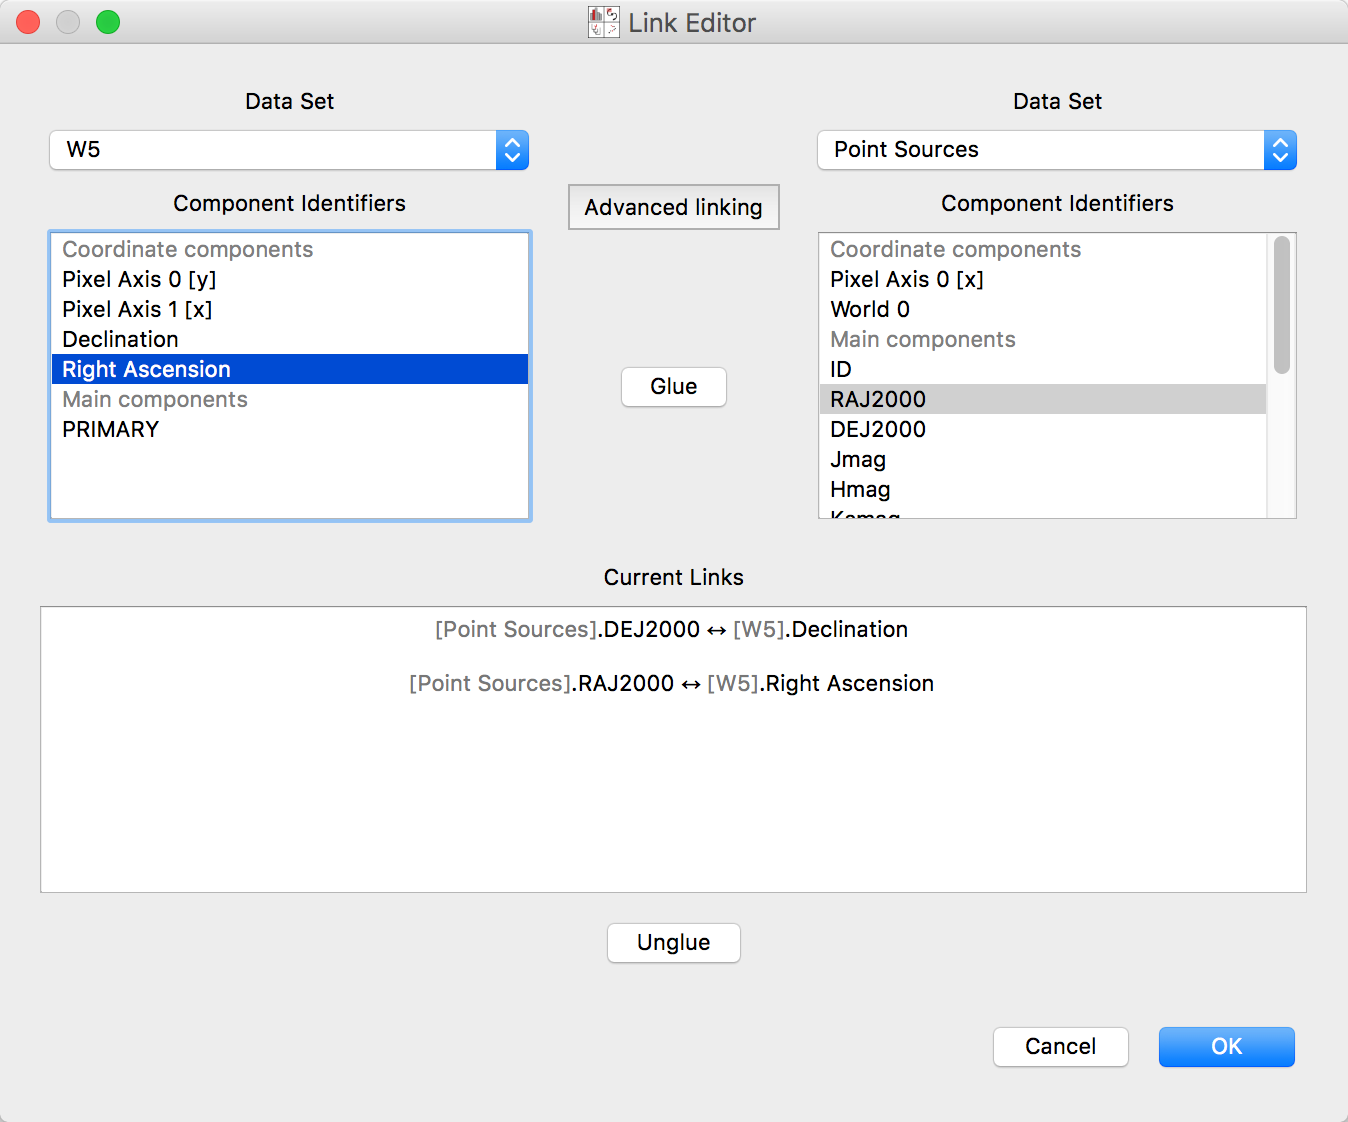
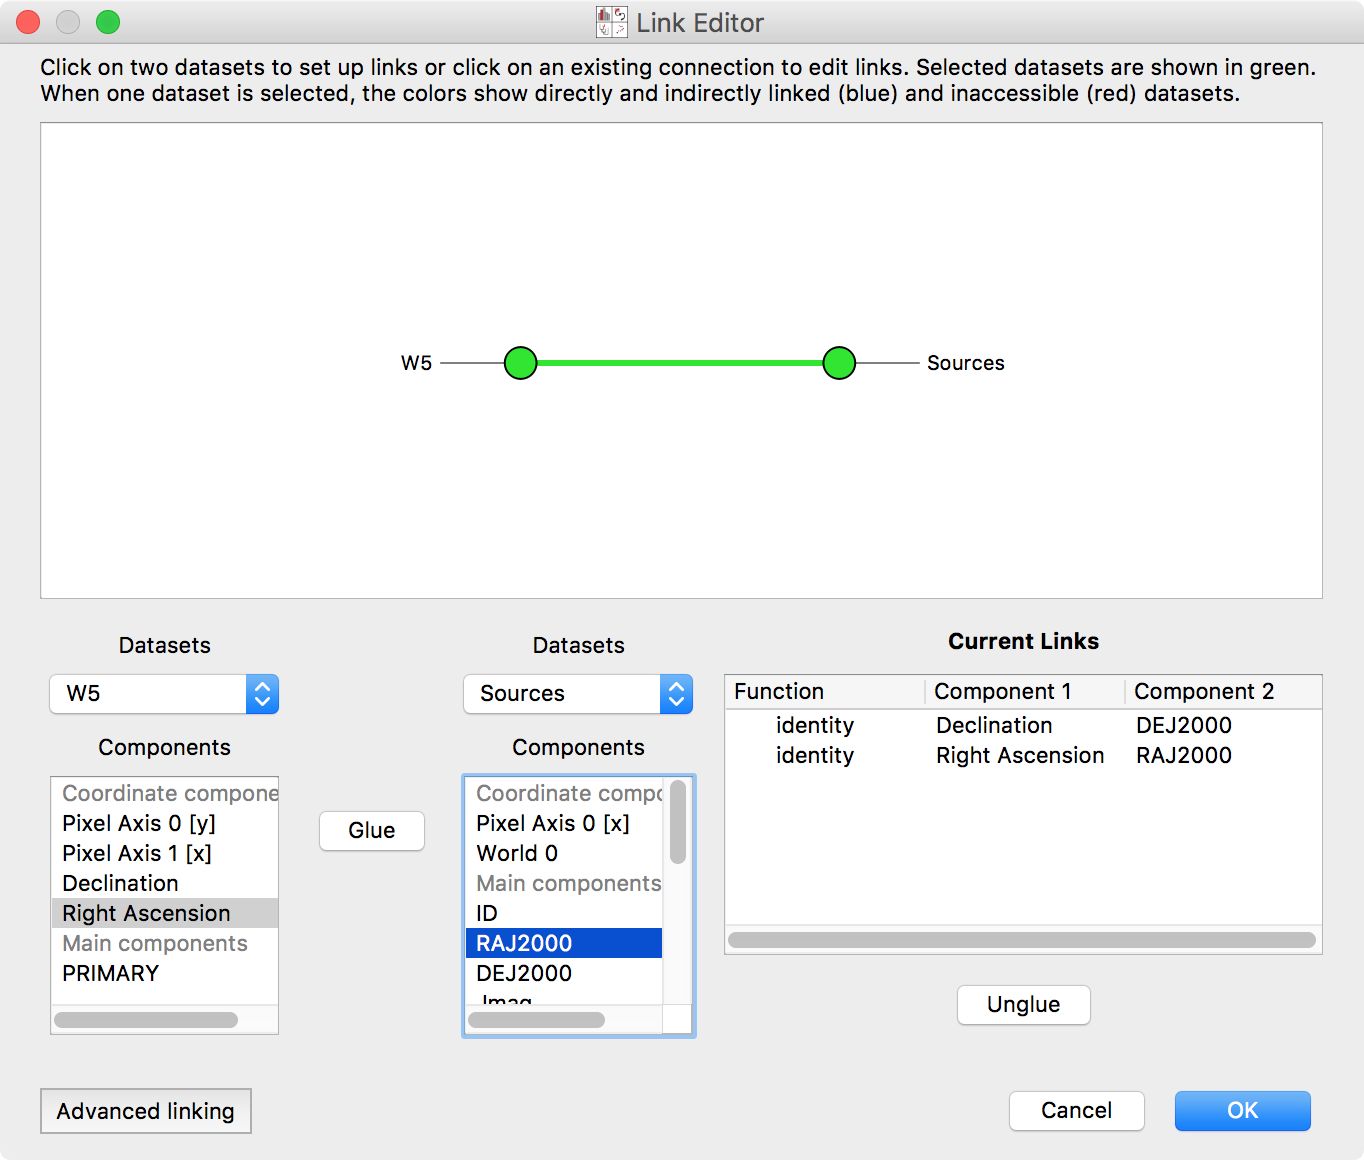
Updated link editor screenshot

diff --git a/doc/getting_started/index.rst b/doc/getting_started/index.rst
@@ -161,13 +161,15 @@ dataset:
 
 .. figure:: images/link_editor.png
    :align: center
+   :width: 600px
 
-The image has an attribute **Right Ascension**. This is the same quantity as the
-**RAJ2000** attribute in the **Point Sources** dataset -- they are both
-describing Right Ascension (the horizontal spatial coordinate on the sky).
-Select these entries, and click **Glue** to instruct the program that these
-quantities are equivalent. Likewise, link **Declination** and **DEJ2000**
-(Declination, the other coordinate). Click **OK**.
+Select the two datasets in the network diagram in the top panel, or from the
+drop-down menus underneath. The image has an attribute **Right Ascension**. This
+is the same quantity as the **RAJ2000** attribute in the **Point Sources**
+dataset -- they are both describing Right Ascension (the horizontal spatial
+coordinate on the sky). Select these entries, and click **Glue** to instruct the
+program that these quantities are equivalent. Likewise, link **Declination** and
+**DEJ2000** (Declination, the other coordinate). Click **OK**.
 
 .. note:: What does this do? This tells Glue how to derive the catalog-defined
           quantities **DEJ2000** and **RAJ2000** using data from the image, and
